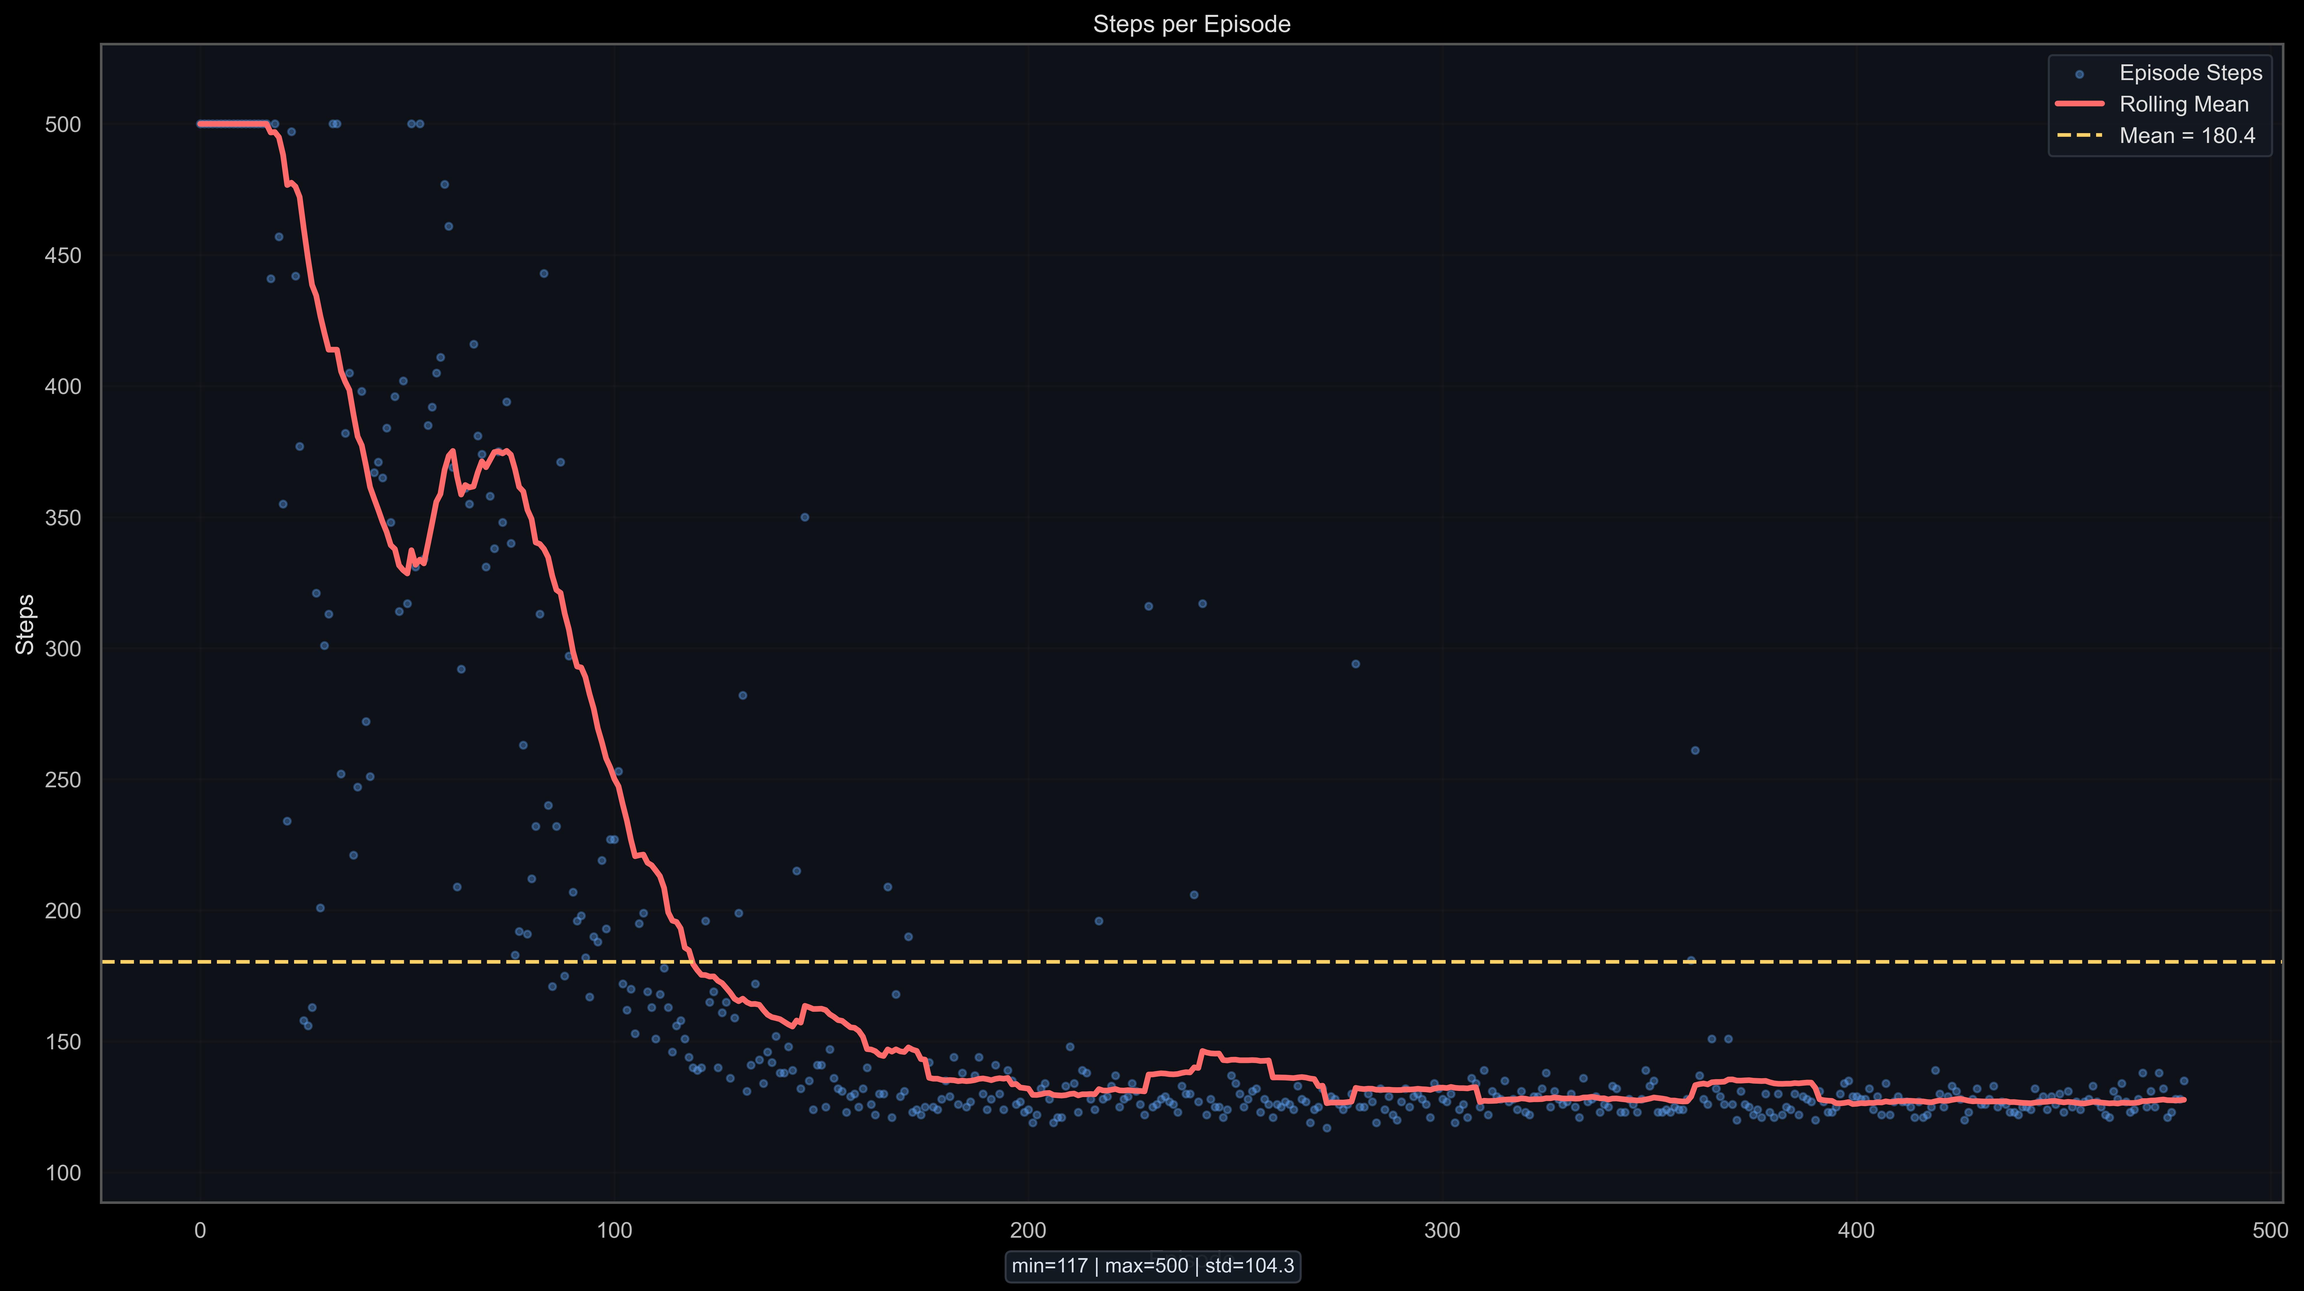
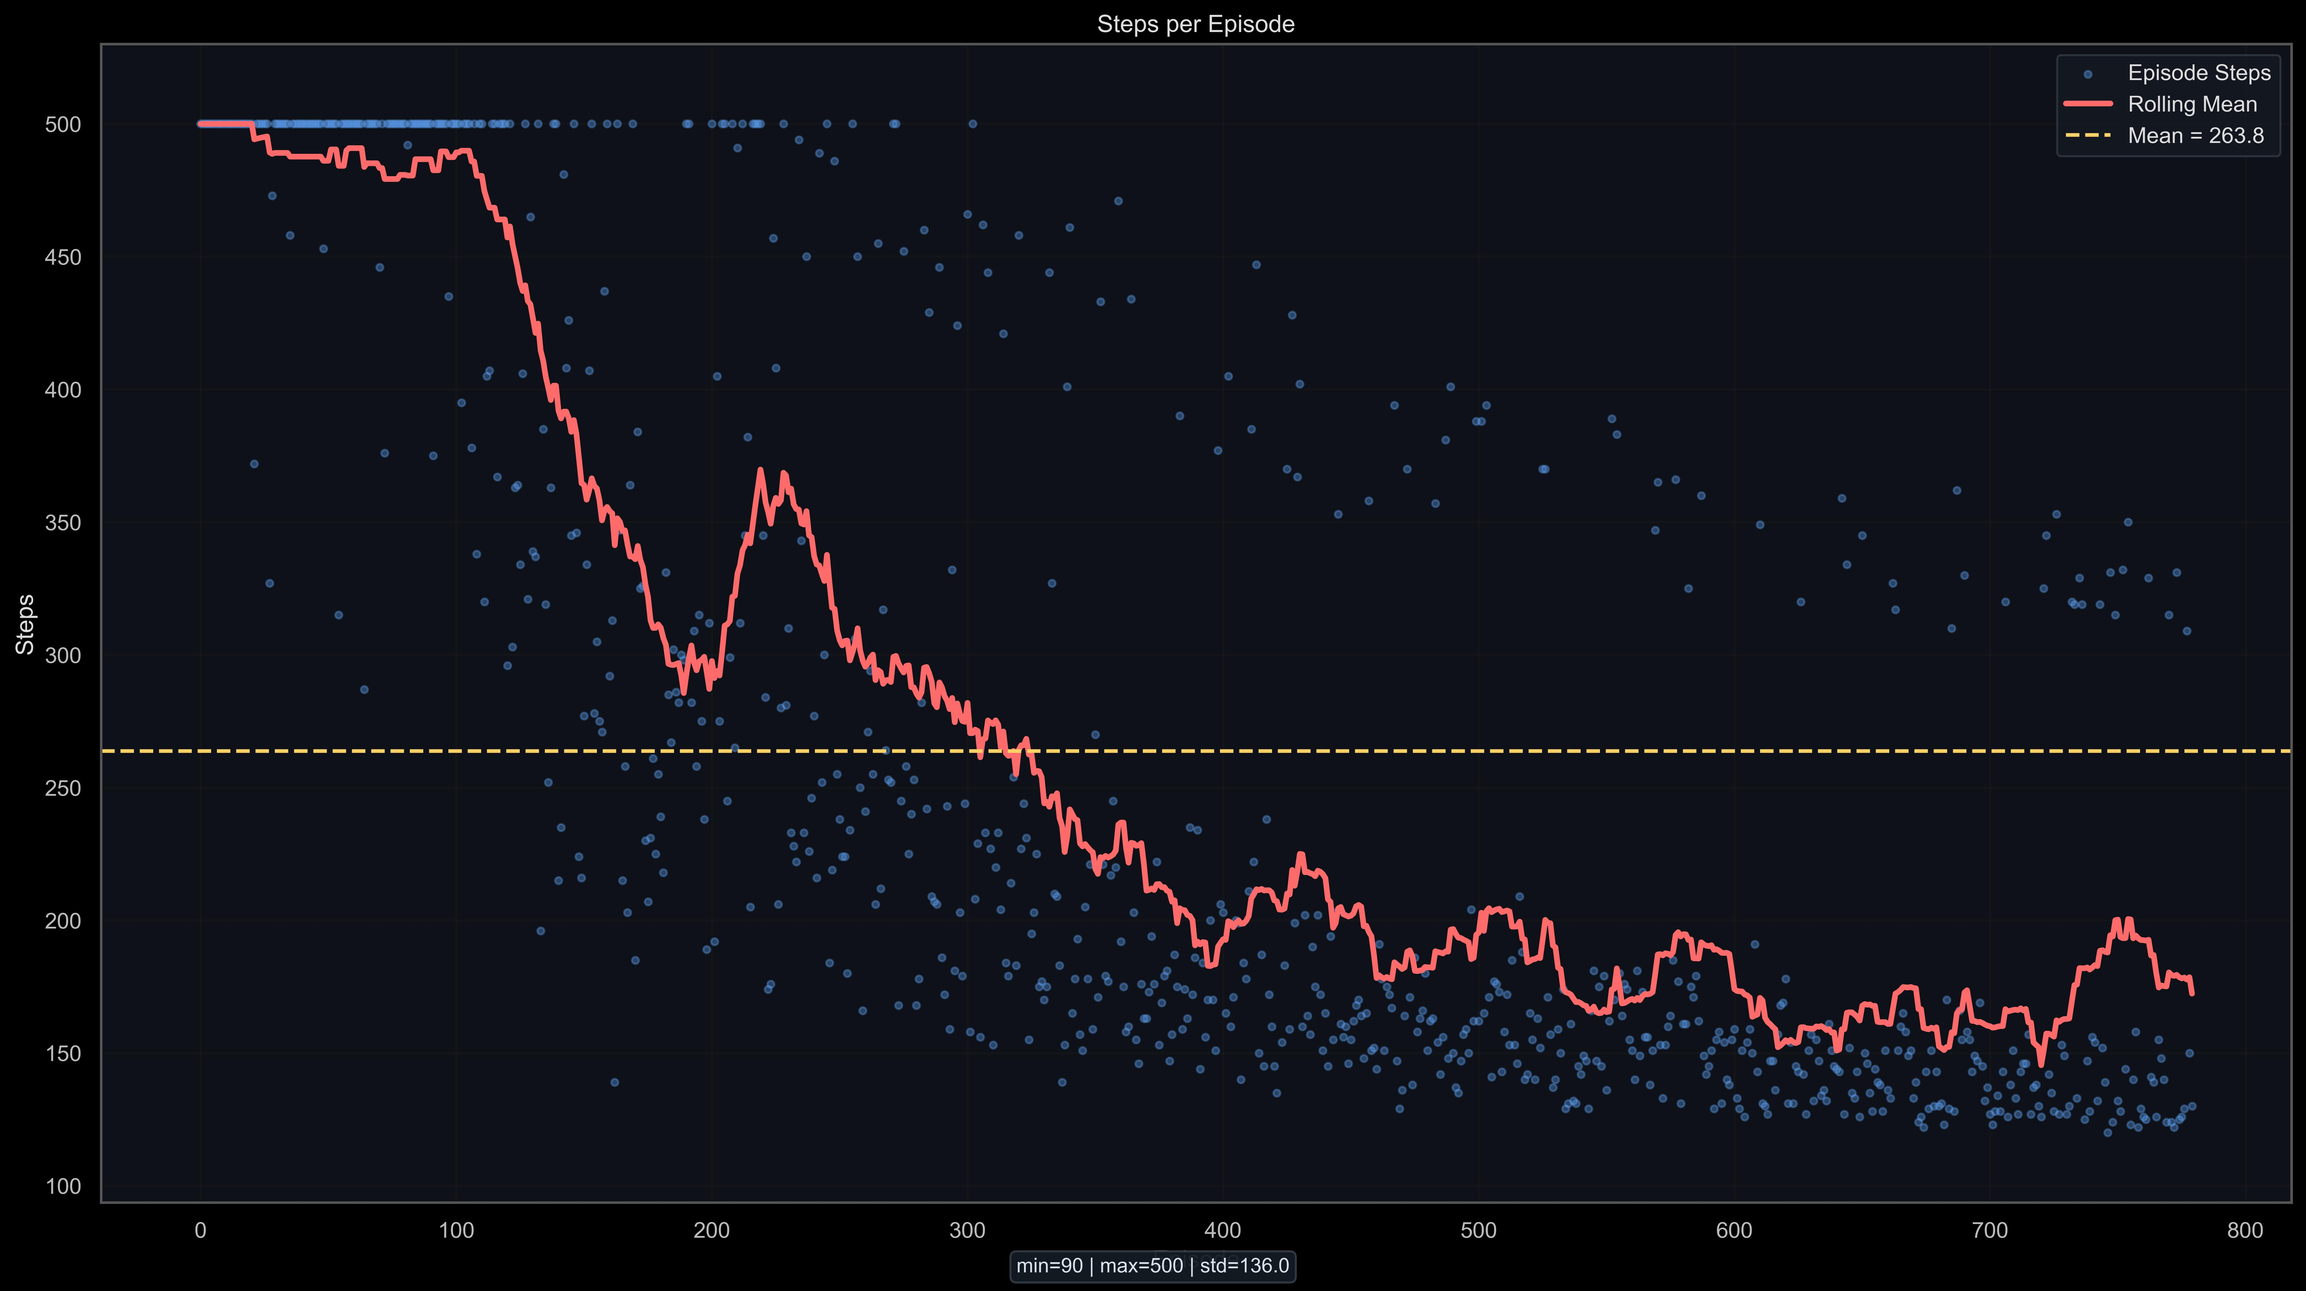
addded a difficulty param

diff --git a/physics_env/envs/quadruped_env.py b/physics_env/envs/quadruped_env.py
@@ -72,6 +72,7 @@ class QuadrupedEnv:
         self.circle_radii   = self.CIRCLE_RADII
         self.circles_passed = set()         # stocke les rayons déjà comptés
         self.prev_radius   = None     # distance horizontale au pas t‑1
+        self.prev_potential = None
         self.rot_penalty_coef = 0.5
         self.gait_reward_coef = 0.5
         self.consecutive_steps_below_critical_height = 0
@@ -258,6 +259,10 @@ class QuadrupedEnv:
                 "sparse_reward": 0.0,
                 "tilt_penalty": 0.0,
                 "gait_reward": 0.0,
+                "joint_limit_penalty": 0.0,
+                "pitch_rate_penalty": 0.0,
+                "height_penalty": 0.0,
+                "stability_bonus": 0.0,
                 "terminal_event_reward": 0.0,
                 "forward_tilt_deg": 0.0,
                 "side_tilt_deg": 0.0,
@@ -270,62 +275,35 @@ class QuadrupedEnv:
 
         next_state = self.get_state()
         # ---- REWARD ---
-        # ----------  a) distance à l'origine (suivant Z uniquement) --------------
-        distance_to_origin_z = abs(self.quadruped.position[2])
-        distance_to_origin_x = abs(self.quadruped.position[0])
-        
-        if self.prev_radius is not None and self.prev_radius < distance_to_origin_z :
-            distance_reward = 0.2 + np.sqrt((distance_to_origin_z - self.prev_radius))* 2 - distance_to_origin_x * 0.2
-        else :
-            distance_reward = - 0.2 - distance_to_origin_x * 0.2
-        
-        self.prev_radius = distance_to_origin_z
+        # ----------  a) progrès vers l'avant (potentiel en Z) ----------------------
+        forward_progress = max(0.0, -float(self.quadruped.position[2]))
+        if self.prev_potential is None:
+            distance_reward = 0.0
+        else:
+            distance_reward = PROGRESS_REWARD_COEF * (forward_progress - self.prev_potential)
+        self.prev_potential = forward_progress
+        self.prev_radius = forward_progress
 
-        # ----------  b) Vitesse (suivant Z uniquement) --------------
-        x_speed, y_speed, z_speed = abs(self.quadruped.velocity[0]), abs(self.quadruped.velocity[1]), -self.quadruped.velocity[2] # On choisit de le recompenser dans la direction vers la camera, cela pourrait tout à fait être l'inverse. Pour les autres, peut import le sens, c'est mauvais
-        z_speed_reward = z_speed * 0.5
+        # ----------  b) vitesse avant (faible shaping) ----------------------------
+        forward_speed = -float(self.quadruped.velocity[2])
+        z_speed_reward = FORWARD_SPEED_REWARD_COEF * float(np.clip(forward_speed, -1.0, 1.0))
 
         # ----------  c)  Pénalité d'inclinaison du corps (pénalité brute) --------------
         forward_tilt, side_tilt = self._compute_body_tilt_angles()
         tilt_excess = max(0.0, forward_tilt - TILT_DEADZONE) + max(0.0, side_tilt - TILT_DEADZONE)
         tilt_penalty = -TILT_PENALTY_COEF * tilt_excess
-        
-        # ----------  d)  Récompense principale --------------
+
+        # ----------  d) checkpoints clairsemés le long de l'axe d'avance ----------
         sparse_reward = 0.0
         for r in self.circle_radii:
-            if distance_to_origin_z >= r and r not in self.circles_passed:
+            if forward_progress >= r and r not in self.circles_passed:
                 sparse_reward += 2.0
                 self.circles_passed.add(r)
 
-        # ----------  e)  Mouvement des articulations ----------------
-        immobile_penalty = 0.0
-        for i in range(4):
-            shoulder_activity = abs(self.quadruped.shoulder_velocities[i])
-            elbow_activity = abs(self.quadruped.elbow_velocities[i])
-            if shoulder_activity == 0 :
-                immobile_penalty += 0.25
-            if elbow_activity == 0 :
-                immobile_penalty += 0.25
-
-        # ----------  f)  Pénalité des angles extremes ----------------
-        angle_penalty = 0.0
-        for i in range(4):
-            if abs(self.quadruped.shoulder_angles[i]) > np.pi/2 * 0.9:
-                angle_penalty += 0.25
-            if abs(self.quadruped.elbow_angles[i]) > np.pi/2 * 0.9:
-                angle_penalty += 0.25
-
-        gait_reward = - self.gait_reward_coef * (immobile_penalty + angle_penalty)
-
         # ----------  Termination checker --------------
-
         below_critical_height = self.quadruped.position[1] < 4.5
-        if below_critical_height:
-            sparse_reward = -0.5
-
         above_critical_height = self.quadruped.position[1] > 5.5
-        if above_critical_height:
-            sparse_reward = -0.5
+        height_penalty = HEIGHT_PENALTY if (below_critical_height or above_critical_height) else 0.0
 
         if below_critical_height:
             self.consecutive_steps_below_critical_height += 1
@@ -355,6 +333,21 @@ class QuadrupedEnv:
             self.consecutive_elbow_limit_steps + 1,
             0,
         )
+        joint_limit_progress = self._get_joint_limit_progress()
+        joint_limit_penalty = -JOINT_LIMIT_PROGRESS_PENALTY_COEF * float(np.mean(np.square(joint_limit_progress)))
+        gait_reward = joint_limit_penalty
+
+        pitch_rate = abs(float(self.quadruped.angular_velocity[0]))
+        pitch_rate_penalty = -PITCH_RATE_PENALTY_COEF * min(pitch_rate, MAX_ANGULAR_VELOCITY)
+
+        stable_motion = (
+            max(forward_tilt, side_tilt) < STABILITY_TILT_THRESHOLD
+            and not below_critical_height
+            and not above_critical_height
+            and forward_speed > 0.0
+        )
+        stability_bonus = STABILITY_BONUS if stable_motion else 0.0
+
         joint_limit_timeout = (
             int(self.consecutive_shoulder_limit_steps.max()) > MAX_CONSECUTIVE_JOINT_LIMIT_STEPS
             or int(self.consecutive_elbow_limit_steps.max()) > MAX_CONSECUTIVE_JOINT_LIMIT_STEPS
@@ -394,7 +387,10 @@ class QuadrupedEnv:
                   + z_speed_reward
                   + sparse_reward
                   + tilt_penalty
-                  + gait_reward
+                  + joint_limit_penalty
+                  + pitch_rate_penalty
+                  + height_penalty
+                  + stability_bonus
                   + terminal_event_reward)
         self.last_reward_components = {
             "distance_reward": float(distance_reward),
@@ -402,6 +398,10 @@ class QuadrupedEnv:
             "sparse_reward": float(sparse_reward),
             "tilt_penalty": float(tilt_penalty),
             "gait_reward": float(gait_reward),
+            "joint_limit_penalty": float(joint_limit_penalty),
+            "pitch_rate_penalty": float(pitch_rate_penalty),
+            "height_penalty": float(height_penalty),
+            "stability_bonus": float(stability_bonus),
             "terminal_event_reward": float(terminal_event_reward),
             "forward_tilt_deg": float(np.degrees(forward_tilt)),
             "side_tilt_deg": float(np.degrees(side_tilt)),

diff --git a/visualization.py b/visualization.py
@@ -240,15 +240,22 @@ class Visualizer:
 
     def _metric_value_from_episode(self, episode_metrics, metric_name):
         if metric_name == "positive_reward_sum":
-            keys = ("distance_reward", "z_speed_reward", "sparse_reward")
+            keys = ("distance_reward", "z_speed_reward", "sparse_reward", "stability_bonus")
             values = [episode_metrics.get(key) for key in keys]
             if any(value is not None for value in values):
                 return float(sum(value or 0.0 for value in values))
             return None
 
         if metric_name == "penalty_sum":
-            keys = ("tilt_penalty", "gait_reward")
-            values = [episode_metrics.get(key) for key in keys]
+            joint_limit_penalty = episode_metrics.get("joint_limit_penalty")
+            if joint_limit_penalty is None:
+                joint_limit_penalty = episode_metrics.get("gait_reward")
+            values = [
+                episode_metrics.get("tilt_penalty"),
+                joint_limit_penalty,
+                episode_metrics.get("pitch_rate_penalty"),
+                episode_metrics.get("height_penalty"),
+            ]
             if any(value is not None for value in values):
                 return float(sum(value or 0.0 for value in values))
             return None
@@ -258,14 +265,27 @@ class Visualizer:
                 "distance_reward",
                 "z_speed_reward",
                 "sparse_reward",
+                "stability_bonus",
                 "tilt_penalty",
-                "gait_reward",
+                "joint_limit_penalty",
+                "pitch_rate_penalty",
+                "height_penalty",
                 "terminal_event_reward",
             )
             values = [episode_metrics.get(key) for key in keys]
+            if episode_metrics.get("joint_limit_penalty") is None and episode_metrics.get("gait_reward") is not None:
+                values[5] = episode_metrics.get("gait_reward")
             if any(value is not None for value in values):
                 return float(sum(value or 0.0 for value in values))
             return None
+
+        if metric_name == "joint_limit_penalty":
+            value = episode_metrics.get("joint_limit_penalty")
+            if value is None:
+                value = episode_metrics.get("gait_reward")
+            if value is None:
+                return None
+            return float(value)
 
         if metric_name == "td_target_mean":
             values = episode_metrics.get("td_targets")
@@ -413,11 +433,11 @@ class Visualizer:
             ("entropy", "Policy Entropy", "Value", self.palette["green"]),
             ("critic_loss", "Critic Loss", "Loss", self.palette["blue"]),
             ("actor_loss", "Actor Loss", "Loss", self.palette["red"]),
-            ("distance_reward", "Distance Reward", "Reward", self.palette["orange"]),
+            ("distance_reward", "Progress Reward", "Reward", self.palette["orange"]),
             ("z_speed_reward", "Forward Speed Reward", "Reward", self.palette["teal"]),
-            ("sparse_reward", "Sparse Reward", "Reward", self.palette["yellow"]),
+            ("sparse_reward", "Checkpoint Reward", "Reward", self.palette["yellow"]),
             ("tilt_penalty", "Tilt Penalty", "Penalty", self.palette["orange"]),
-            ("gait_reward", "Gait Penalty", "Penalty", self.palette["magenta"]),
+            ("joint_limit_penalty", "Joint Limit Penalty", "Penalty", self.palette["magenta"]),
             ("forward_tilt_deg", "Forward Tilt", "Degrees", self.palette["orange"]),
         ]
 
@@ -449,9 +469,10 @@ class Visualizer:
             [
                 ("reward_norm_mean", "Normalized Reward", self.palette["cyan"]),
                 ("positive_reward_sum", "Positive Reward Sum", self.palette["green"]),
-                ("distance_reward", "Distance", self.palette["orange"]),
+                ("distance_reward", "Progress", self.palette["orange"]),
                 ("z_speed_reward", "Forward Speed", self.palette["teal"]),
-                ("sparse_reward", "Sparse", self.palette["yellow"]),
+                ("sparse_reward", "Checkpoint", self.palette["yellow"]),
+                ("stability_bonus", "Stability Bonus", self.palette["blue"]),
             ],
         )
         self._plot_grouped_series(
@@ -462,7 +483,9 @@ class Visualizer:
             [
                 ("penalty_sum", "Penalty Sum", self.palette["red"]),
                 ("tilt_penalty", "Tilt Penalty", self.palette["orange"]),
-                ("gait_reward", "Gait Penalty", self.palette["magenta"]),
+                ("joint_limit_penalty", "Joint Limit", self.palette["magenta"]),
+                ("pitch_rate_penalty", "Pitch Rate", self.palette["blue"]),
+                ("height_penalty", "Height", self.palette["yellow"]),
             ],
         )
         self._plot_grouped_series(

diff --git a/tests/test_joint_motor_dynamics.py b/tests/test_joint_motor_dynamics.py
@@ -3,6 +3,7 @@ import unittest
 import numpy as np
 
 from physics_env.core.config import ELBOW_DELTA, MOTOR_STOP_EPS, SHOULDER_DELTA
+import physics_env.quadruped.quadruped as quadruped_module
 from physics_env.quadruped.quadruped import Quadruped
 from physics_env.quadruped.quadruped_points import create_quadruped_vertices, get_quadruped_vertices
 
@@ -56,6 +57,28 @@ class JointMotorDynamicsTest(unittest.TestCase):
             quadruped.adjust_elbow_angle(0, -ELBOW_DELTA)
 
         self.assertLess(float(quadruped.elbow_velocities[0]), 0.0)
+
+    def test_lower_motor_difficulty_brakes_faster(self):
+        base_quadruped = make_quadruped()
+        easy_quadruped = make_quadruped()
+
+        previous_difficulty = quadruped_module.MOTOR_DIFFICULTY
+        try:
+            quadruped_module.MOTOR_DIFFICULTY = 1.0
+            for _ in range(8):
+                base_quadruped.adjust_shoulder_angle(0, SHOULDER_DELTA)
+            base_quadruped.adjust_shoulder_angle(0, 0.0)
+            base_velocity = abs(float(base_quadruped.shoulder_velocities[0]))
+
+            quadruped_module.MOTOR_DIFFICULTY = 0.0
+            for _ in range(8):
+                easy_quadruped.adjust_shoulder_angle(0, SHOULDER_DELTA)
+            easy_quadruped.adjust_shoulder_angle(0, 0.0)
+            easy_velocity = abs(float(easy_quadruped.shoulder_velocities[0]))
+        finally:
+            quadruped_module.MOTOR_DIFFICULTY = previous_difficulty
+
+        self.assertLess(easy_velocity, base_velocity)
 
 
 if __name__ == "__main__":

diff --git a/physics_env/core/config.py b/physics_env/core/config.py
@@ -54,10 +54,16 @@ MAX_AVERAGE_IMPULSE = 2.0
 # --- Angles d'articulations ---
 SHOULDER_DELTA = 0.025
 ELBOW_DELTA = 0.025
+# 1.0 = comportement moteur actuel (prod), 0.0 = moteur plus assisté:
+# réponse plus directe et freinage/ralentissement plus rapide.
+MOTOR_DIFFICULTY = 1.0
 MOTOR_RESPONSE_GAIN = 0.25
 MOTOR_IDLE_BRAKE_GAIN = 0.35
 MOTOR_VELOCITY_DAMPING = 0.08
 MOTOR_STOP_EPS = 1e-4
+MOTOR_RESPONSE_DIFFICULTY_BOOST = 0.45
+MOTOR_BRAKE_DIFFICULTY_BOOST = 0.45
+MOTOR_DAMPING_DIFFICULTY_BOOST = 0.22
 
 # --- Contact / Friction ----------------------------------------------------
 # 0.02 unites/s ~= 4 mm/s avec l'echelle ci-dessus.
@@ -73,6 +79,13 @@ TERMINAL_PENALTY_TOO_HIGH = -4.0
 TERMINAL_PENALTY_CRITICAL_TILT = -3.0
 TERMINAL_PENALTY_JOINT_LIMIT_TIMEOUT = -2.0
 TERMINAL_BONUS_MAX_STEPS = 0.5
+PROGRESS_REWARD_COEF = 50.0
+FORWARD_SPEED_REWARD_COEF = 0.10
+JOINT_LIMIT_PROGRESS_PENALTY_COEF = 1.5
+PITCH_RATE_PENALTY_COEF = 0.08
+HEIGHT_PENALTY = -0.5
+STABILITY_BONUS = 0.05
+STABILITY_TILT_THRESHOLD = np.deg2rad(6.0)
 
 # ----- Debug Physics Simulation --------------------------------------
 DEBUG_CONTACT = False       
@@ -87,8 +100,8 @@ DEBUG_RL_VIZ   = False
 EPISODES  = 2_000
 MAX_STEPS = 500
 
-START_EPS = 0.49
-EPS_DECAY = 0.998
+START_EPS = 0.99
+EPS_DECAY = 0.999
 EPS_MIN   = 0.01
 
 PLOT_INTERVAL = 30

diff --git a/physics_env/quadruped/quadruped.py b/physics_env/quadruped/quadruped.py
@@ -349,11 +349,21 @@ class Quadruped:
 
     def _update_joint_motor(self, angles, velocities, leg_index, target_speed):
         target_speed = float(target_speed)
-        response_gain = MOTOR_RESPONSE_GAIN if abs(target_speed) > 1e-9 else MOTOR_IDLE_BRAKE_GAIN
+        ease_factor = 1.0 - float(np.clip(MOTOR_DIFFICULTY, 0.0, 1.0))
+        if abs(target_speed) > 1e-9:
+            response_gain = MOTOR_RESPONSE_GAIN + ease_factor * MOTOR_RESPONSE_DIFFICULTY_BOOST
+        else:
+            response_gain = MOTOR_IDLE_BRAKE_GAIN + ease_factor * MOTOR_BRAKE_DIFFICULTY_BOOST
+        response_gain = float(np.clip(response_gain, 0.0, 1.0))
+        velocity_damping = float(np.clip(
+            MOTOR_VELOCITY_DAMPING + ease_factor * MOTOR_DAMPING_DIFFICULTY_BOOST,
+            0.0,
+            0.95,
+        ))
         current_velocity = float(velocities[leg_index])
 
         current_velocity += (target_speed - current_velocity) * response_gain
-        current_velocity *= (1.0 - MOTOR_VELOCITY_DAMPING)
+        current_velocity *= (1.0 - velocity_damping)
 
         if abs(current_velocity) < MOTOR_STOP_EPS:
             current_velocity = 0.0

diff --git a/main.py b/main.py
@@ -19,7 +19,7 @@ agent = QuadrupedAgent(
     action_size=ACTION_SIZE,
     gamma=GAMMA,
     learning_rate=ALPHA,
-    load_model=False,
+    load_model=True,
     load_path=f"saved_models/quadruped_agent.pth",
 )
 
